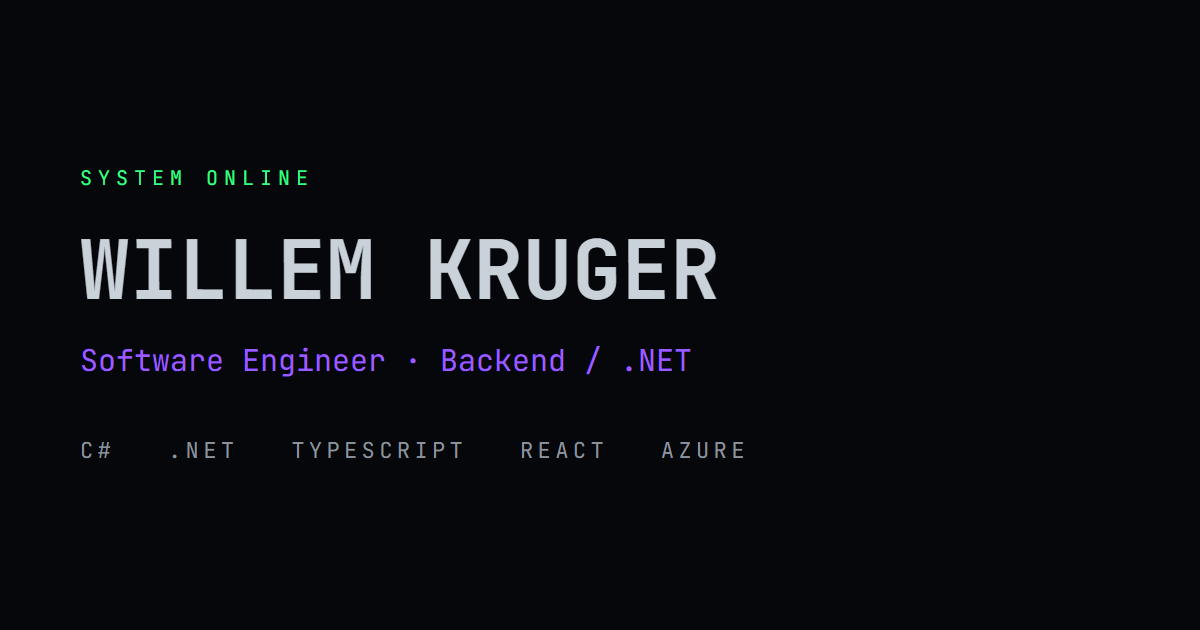
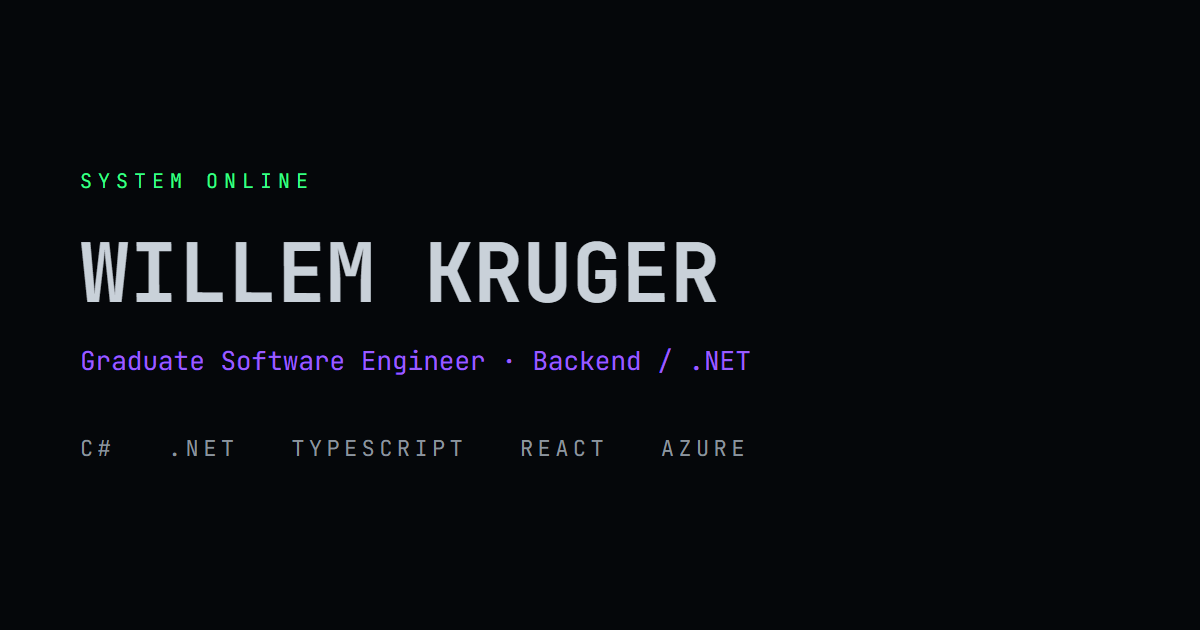
fix: correct inflated role to match verified fact (I5)
data/profile.ts set role: "Software Engineer", but the verified fact
(and what data/timeline.ts already said) is "Graduate Software
Engineer" — the page contradicted itself. This string drives the hero,
the Identity role row, the <title>, and the OG title/image.

Updated profile.ts's role, updated the OG script's hardcoded role text to
match, reduced its font-size slightly (30px -> 26px) so the longer string
doesn't crowd the card, and regenerated public/images/og.png with
`node scripts/make-og.mjs`. Confirmed the longer role reads cleanly with
no wrapping in the regenerated image, and the hero/title still read well.

diff --git a/data/profile.ts b/data/profile.ts
@@ -3,7 +3,7 @@ import type { Profile } from "./types";
 export const profile: Profile = {
   name: "Willem Kruger",
   handle: "WillemBarendKruger",
-  role: "Software Engineer",
+  role: "Graduate Software Engineer",
   epithet: "Digital Arcanist",
   location: "Mpumalanga, South Africa",
   summary: [
